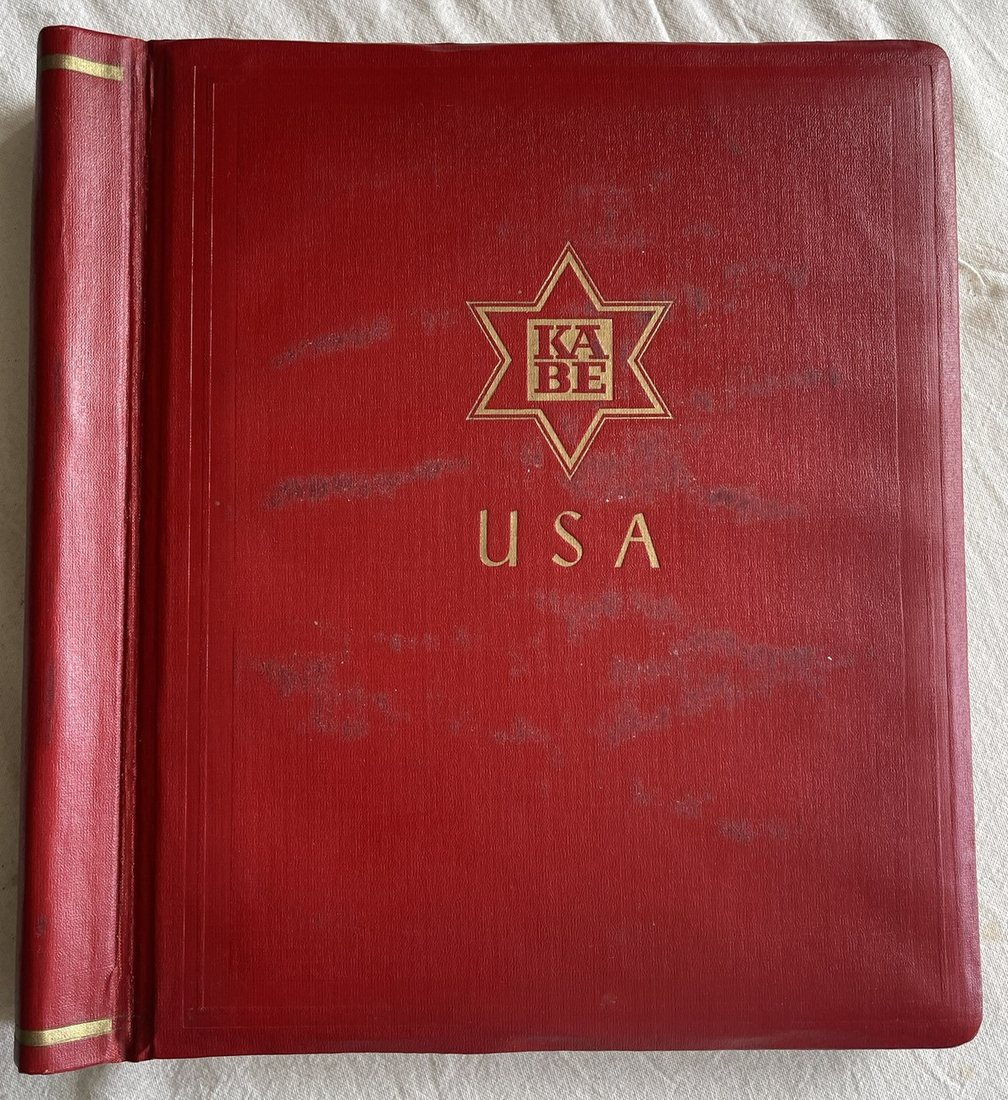
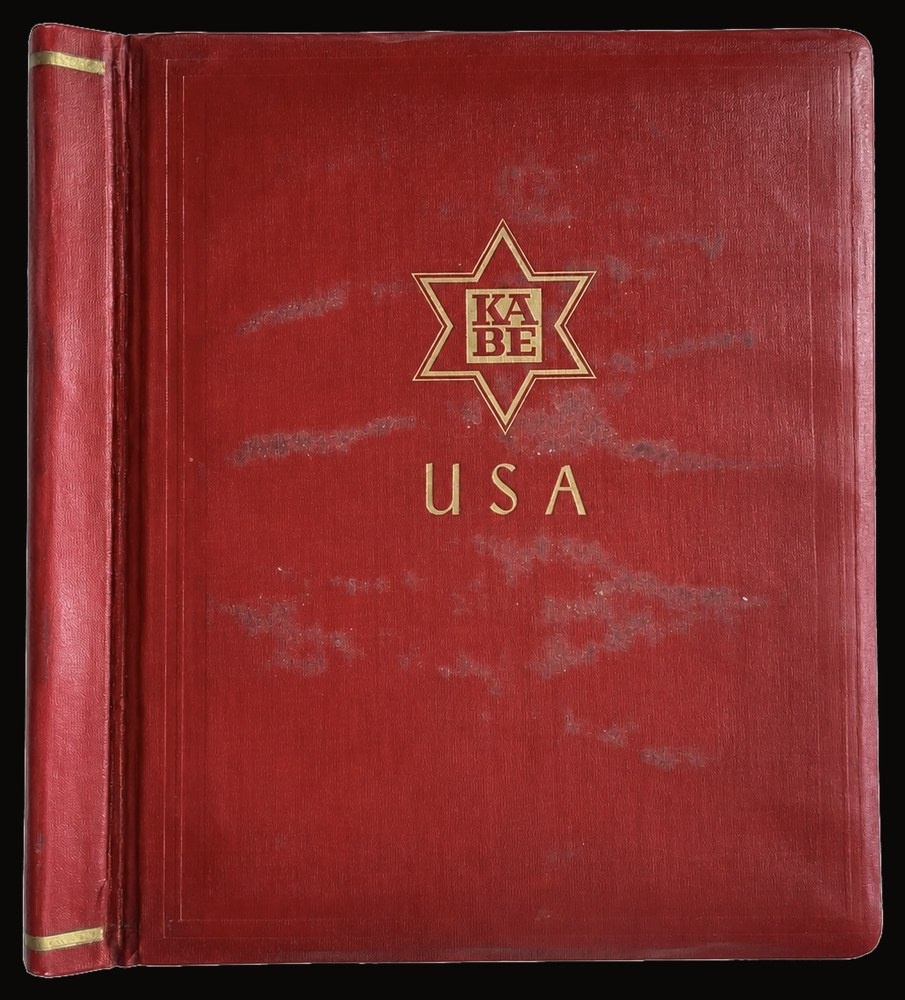
Antiqua Gallery: обработанные снимки альбома, обложка без рамки
Claude-Session: https://claude.ai/code/session_01FB5ocbtCTAb83e1NTbGKag

diff --git a/docs/antique/index.html b/docs/antique/index.html
@@ -708,6 +708,9 @@ body.cur-view #cur-trail{opacity:0}
 .ph-frame:hover{box-shadow:0 30px 80px rgba(0,0,0,.75),0 0 0 1px rgba(196,162,74,.35)}
 .ph-frame img{width:100%;height:auto;display:block;transition:transform 1s cubic-bezier(.16,1,.3,1)}
 .ph-frame:hover img{transform:scale(1.03)}
+/* Обложка вырезана с белого фона и лежит прямо на фоне страницы:
+   подложка и тень нарисовали бы вокруг неё лишний прямоугольник */
+.ph-frame--main,.ph-frame--main:hover{background:none;box-shadow:none}
 .ph-prov{display:grid;grid-template-columns:118px 1fr;gap:20px;align-items:start;margin-top:26px}
 .ph-frame--small{box-shadow:0 10px 26px rgba(0,0,0,.5)}
 .ph-num{font-family:'Cormorant Garamond',Georgia,serif;font-size:11px;letter-spacing:.32em;
